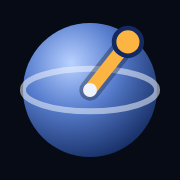
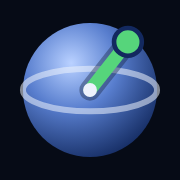
q1 is green: swap the first and third qubit colors
The palette's accents now run green, violet, amber, cyan, pink, so the first
qubit is green and the third amber; the set is unchanged and still validated
as a whole. The first pair (green, violet) stays at least 19.7 apart under
protan/deutan simulation. The favicon's arrow is green to match.

Changed region(s): [[0.4722, 0.1667, 0.7778, 0.5278]]

diff --git a/web/src/theme.css b/web/src/theme.css
@@ -37,17 +37,18 @@
   --info: light-dark(oklch(0.52 0.09 220), oklch(0.76 0.09 220));
 
   /*
-   * Five colors for telling things apart (Bloch Sphere's qubits), in this fixed order: amber, violet,
-   * green, cyan, pink. Each theme's five are validated as a set, for every pair, by OKLab distance
+   * Five colors for telling things apart (Bloch Sphere's qubits), in this fixed order: green, violet,
+   * amber, cyan, pink. Each theme's five are validated as a set, for every pair, by OKLab distance
    * (x100) under protan/deutan simulation (Machado 2009) and for normal vision:
    *   dark: worst pair 11.1 (deutan), 20.5 (normal); at least 4.7:1 on the dark page.
    *   light: worst pair 11.1 (deutan), 20.8 (normal); at least 3:1 on the light page and --bg-sunken.
-   * Lightness alternates on purpose; it is the cue that survives color blindness. The hues stay the
-   * same in both themes, so the first color is amber in either.
+   * The first two (seen together most) are at least 19.7 apart under simulation. Lightness varies
+   * across the set on purpose; it is the cue that survives color blindness. The hues stay the same
+   * in both themes, so the first color is green in either.
    */
-  --accent-1: light-dark(oklch(0.6 0.125 75), oklch(0.82 0.15 75));
+  --accent-1: light-dark(oklch(0.4 0.11 150), oklch(0.6 0.15 150));
   --accent-2: light-dark(oklch(0.4 0.17 295), oklch(0.6 0.15 295));
-  --accent-3: light-dark(oklch(0.4 0.11 150), oklch(0.6 0.15 150));
+  --accent-3: light-dark(oklch(0.6 0.125 75), oklch(0.82 0.15 75));
   --accent-4: light-dark(oklch(0.62 0.11 215), oklch(0.82 0.141 215));
   --accent-5: light-dark(oklch(0.52 0.17 355), oklch(0.74 0.15 355));
 

diff --git a/web/src/styles.css b/web/src/styles.css
@@ -2,9 +2,9 @@
   /* Colors come from theme.css, the palette shared with ferasbisharat.com. These build on it. */
 
   /* Qubits: the palette's five accents, in its fixed order (validated as a set there). */
-  --qubit-1: var(--accent-1); /* amber */
+  --qubit-1: var(--accent-1); /* green */
   --qubit-2: var(--accent-2); /* violet */
-  --qubit-3: var(--accent-3); /* green */
+  --qubit-3: var(--accent-3); /* amber */
   --qubit-4: var(--accent-4); /* cyan */
   --qubit-5: var(--accent-5); /* pink */
 

diff --git a/docs/design.md b/docs/design.md
@@ -322,7 +322,7 @@ Ideas beyond the panels above, with a rough sense of value for a beginner and th
 
 - **Color tokens** are OKLCH. The palette (surfaces, text, lines, accents, status, five accent colors) is `web/src/theme.css`, a copy of the one shared with [ferasbisharat.com](https://ferasbisharat.com) (`ferasb.github.io/theme.css`, the original). `web/src/styles.css` builds this site's tokens on it: the qubits, the 3D scene. The 3D scene reads them through `ui/palette.ts`, so there's one source of truth.
 - **Light and dark.** Every palette token is a `light-dark(light, dark)` pair. The site follows the system's theme until the visitor picks one with the theme button in the top bar (it switches between light and dark); the pick is kept in `localStorage` (`persist/theme.ts`). A pick sets `data-theme` on `<html>`, which `theme.css` reads; `public/theme-init.js` sets it before the first paint, on the app and on the About and Privacy pages. When the theme changes, the 3D scene rebuilds its objects with the new palette (`Scene.tsx`); the camera stays.
-- **Qubit colors** (`--qubit-1` … `--qubit-5`, the palette's five accents) are validated as a set in each theme, by OKLab distance under protanopia and deuteranopia simulation: worst pair 11.1 for both themes, and 20.5 (dark) and 20.8 (light) for normal vision. The hues are the same in both themes, so q1 is amber in either. In dark they're brighter than the usual chart range on purpose, because they're thin arrows on near-black; in light they're darker, at least 3:1 against the page and the 3D view.
+- **Qubit colors** (`--qubit-1` … `--qubit-5`, the palette's five accents) are validated as a set in each theme, by OKLab distance under protanopia and deuteranopia simulation: worst pair 11.1 for both themes, and 20.5 (dark) and 20.8 (light) for normal vision. The hues are the same in both themes, so q1 is green in either (and q2 violet: the pair seen together most stays at least 19.7 apart under simulation). In dark they're brighter than the usual chart range on purpose, because they're thin arrows on near-black; in light they're darker, at least 3:1 against the page and the 3D view.
 - **Identity is never color alone.** With two or more qubits, each arrow tip carries its name (q1, q2).
 - **Phase is an angle, never a hue** (principle 6). Circle notation, dials and the top view all show phase as direction.
 - **Status colors** (danger, warning, success, info) appear only with an icon and a label.
